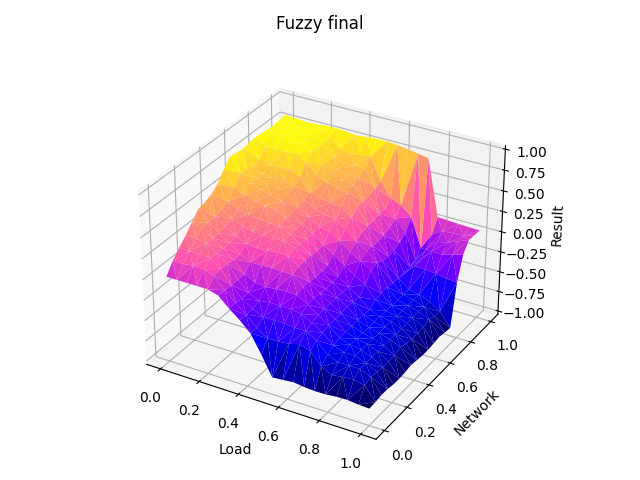
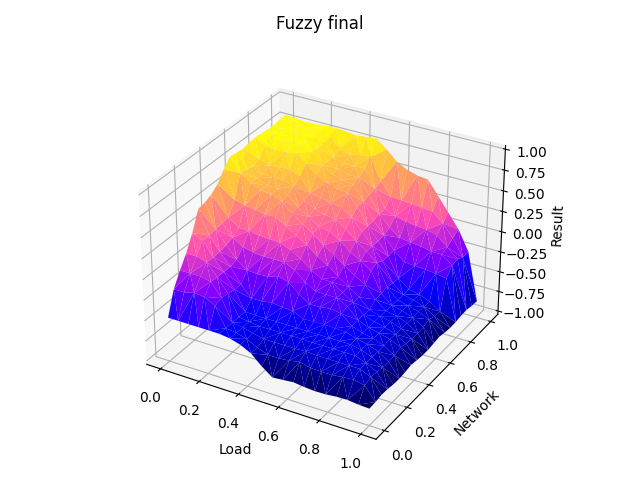
Final Projeto2

Changed region(s): [[0.25, 0.375, 0.5625, 0.8125], [0.5938, 0.2812, 0.75, 0.6875]]

diff --git a/Projeto_2/main.py b/Projeto_2/main.py
@@ -22,7 +22,7 @@ S_4 = FuzzySet(function=Triangular_MF(a=0.5, b=0.75, c=1), term="high")
 S_5 = FuzzySet(function=Triangular_MF(a=0.75, b=1, c=1), term="very_high")
 S_LV =  LinguisticVariable([S_1, S_2, S_3,S_4,S_5], concept="Memory usage", universe_of_discourse=[0,1])
 FS_L.add_linguistic_variable("Memory",S_LV)
-#L_LL.plot()
+
 
 F_1 = FuzzySet(function=Triangular_MF(a=0, b=0, c=0.25), term="very_low")
 F_2 = FuzzySet(function=Triangular_MF(a=0.0, b=0.25, c=0.5), term="low")
@@ -40,7 +40,7 @@ T_4 = FuzzySet(function=Triangular_MF(a=0.5, b=0.75, c=1), term="high")
 T_5 = FuzzySet(function=Triangular_MF(a=0.75, b=1, c=1), term="very_high")
 T_LV = LinguisticVariable([T_1, T_2, T_3, T_4, T_5], universe_of_discourse=[0,1])
 FS_L.add_linguistic_variable("Load", T_LV)
-FS_L.produce_figure()
+#FS_L.produce_figure()
 
 # Define fuzzy rules
 R_L1 = "IF (Memory IS very_low) AND (Processor IS very_low) THEN (Load IS very_high)"
@@ -52,21 +52,21 @@ R_L6 = "IF (Memory IS low) AND (Processor IS very_low) THEN (Load IS very_high)"
 R_L7 = "IF (Memory IS low) AND (Processor IS low) THEN (Load IS very_high)"
 R_L8 = "IF (Memory IS low) AND (Processor IS normal) THEN (Load IS high)"
 R_L9 = "IF (Memory IS low) AND (Processor IS high) THEN (Load IS high)"
-R_L10 = "IF (Memory IS low) AND (Processor IS very_high) THEN (Load IS normal)"
+R_L10 = "IF (Memory IS low) AND (Processor IS very_high) THEN (Load IS low)"
 R_L11 = "IF (Memory IS normal) AND (Processor IS very_low) THEN (Load IS high)"
 R_L12 = "IF (Memory IS normal) AND (Processor IS low) THEN (Load IS high)"
 R_L13 = "IF (Memory IS normal) AND (Processor IS normal) THEN (Load IS normal)"
-R_L14 = "IF (Memory IS normal) AND (Processor IS high) THEN (Load IS normal)"
-R_L15 = "IF (Memory IS normal) AND (Processor IS very_high) THEN (Load IS normal)"
+R_L14 = "IF (Memory IS normal) AND (Processor IS high) THEN (Load IS low)"
+R_L15 = "IF (Memory IS normal) AND (Processor IS very_high) THEN (Load IS low)"
 R_L16 = "IF (Memory IS high) AND (Processor IS very_low) THEN (Load IS high)"
 R_L17 = "IF (Memory IS high) AND (Processor IS low) THEN (Load IS high)"
-R_L18 = "IF (Memory IS high) AND (Processor IS normal) THEN (Load IS normal)"
+R_L18 = "IF (Memory IS high) AND (Processor IS normal) THEN (Load IS low)"
 R_L19 = "IF (Memory IS high) AND (Processor IS high) THEN (Load IS low)"
-R_L20 = "IF (Memory IS high) AND (Processor IS very_high) THEN (Load IS low)"
+R_L20 = "IF (Memory IS high) AND (Processor IS very_high) THEN (Load IS very_low)"
 R_L21 = "IF (Memory IS very_high) AND (Processor IS very_low) THEN (Load IS high)"
-R_L22 = "IF (Memory IS very_high) AND (Processor IS low) THEN (Load IS normal)"
-R_L23 = "IF (Memory IS very_high) AND (Processor IS normal) THEN (Load IS normal)"
-R_L24 = "IF (Memory IS very_high) AND (Processor IS very_high) THEN (Load IS low)"
+R_L22 = "IF (Memory IS very_high) AND (Processor IS low) THEN (Load IS low)"
+R_L23 = "IF (Memory IS very_high) AND (Processor IS normal) THEN (Load IS low)"
+R_L24 = "IF (Memory IS very_high) AND (Processor IS high) THEN (Load IS very_low)"
 R_L25 = "IF (Memory IS very_high) AND (Processor IS very_high) THEN (Load IS very_low)"
 FS_L.add_rules([ R_L1, R_L2, R_L3, R_L4, R_L5, R_L6, R_L7, R_L8, R_L9, R_L10, R_L11, R_L12, R_L13, R_L14, R_L15, R_L16, R_L17 ,R_L18, R_L19, R_L20, R_L21, R_L22, R_L23, R_L24, R_L25 ])
 
@@ -99,34 +99,34 @@ N_4 = FuzzySet(function=Triangular_MF(a=0.5, b=0.75, c=1), term="high")
 N_5 = FuzzySet(function=Triangular_MF(a=0.75, b=1, c=1), term="very_high")
 N_LV = LinguisticVariable([N_1, N_2, N_3, N_4, N_5], universe_of_discourse=[0, 1])
 FS_N.add_linguistic_variable("Network", N_LV)
-FS_N.produce_figure()
+#FS_N.produce_figure()
 # Define fuzzy rules
 
-R_N1 = "IF (Output IS very_low) AND (Latency IS very_low) THEN (Network IS normal)"
+R_N1 = "IF (Output IS very_low) AND (Latency IS very_low) THEN (Network IS low)"
 R_N2 = "IF (Output IS very_low) AND (Latency IS low) THEN (Network IS high)"
 R_N3 = "IF (Output IS very_low) AND (Latency IS normal) THEN (Network IS high)"
 R_N4 = "IF (Output IS very_low) AND (Latency IS high) THEN (Network IS very_high)"
 R_N5 = "IF (Output IS very_low) AND (Latency IS very_high) THEN (Network IS very_high)"
-R_N6 = "IF (Output IS low) AND (Latency IS very_low) THEN (Network IS normal"
-R_N7 = "IF (Output IS low) AND (Latency IS low) THEN (Network IS normal)"
+R_N6 = "IF (Output IS low) AND (Latency IS very_low) THEN (Network IS low"
+R_N7 = "IF (Output IS low) AND (Latency IS low) THEN (Network IS low)"
 R_N8 = "IF (Output IS low) AND (Latency IS normal) THEN (Network IS high)"
 R_N9 = "IF (Output IS low) AND (Latency IS high) THEN (Network IS high)"
 R_N10 = "IF (Output IS low) AND (Latency IS very_high) THEN (Network IS very_high)"
 R_N11 = "IF (Output IS normal) AND (Latency IS very_low) THEN (Network IS low)"
-R_N12 = "IF (Output IS normal) AND (Latency IS low) THEN (Network IS normal)"
+R_N12 = "IF (Output IS normal) AND (Latency IS low) THEN (Network IS low)"
 R_N13 = "IF (Output IS normal) AND (Latency IS normal) THEN (Network IS normal)"
 R_N14 = "IF (Output IS normal) AND (Latency IS high) THEN (Network IS high)"
 R_N15 = "IF (Output IS normal) AND (Latency IS very_high) THEN (Network IS high)"
 R_N16 = "IF (Output IS high) AND (Latency IS low) THEN (Network IS low)"
-R_N17 = "IF (Output IS high) AND (Latency IS very_low) THEN (Network IS low)"
-R_N18 = "IF (Output IS high) AND (Latency IS normal) THEN (Network IS normal)"
-R_N19 = "IF (Output IS high) AND (Latency IS high) THEN (Network IS normal)"
+R_N17 = "IF (Output IS high) AND (Latency IS very_low) THEN (Network IS very_low)"
+R_N18 = "IF (Output IS high) AND (Latency IS normal) THEN (Network IS low)"
+R_N19 = "IF (Output IS high) AND (Latency IS high) THEN (Network IS low)"
 R_N20 = "IF (Output IS high) AND (Latency IS very_high) THEN (Network IS high)"
 R_N21 = "IF (Output IS very_high) AND (Latency IS low) THEN (Network IS very_low)"
-R_N22 = "IF (Output IS very_high) AND (Latency IS very_low) THEN (Network IS low)"
+R_N22 = "IF (Output IS very_high) AND (Latency IS very_low) THEN (Network IS very_low)"
 R_N23 = "IF (Output IS very_high) AND (Latency IS normal) THEN (Network IS low)"
-R_N24 = "IF (Output IS very_high) AND (Latency IS very_high) THEN (Network IS normal)"
-R_N25 = "IF (Output IS very_high) AND (Latency IS very_high) THEN (Network IS normal)"
+R_N24 = "IF (Output IS very_high) AND (Latency IS high) THEN (Network IS low)"
+R_N25 = "IF (Output IS very_high) AND (Latency IS very_high) THEN (Network IS low)"
 FS_N.add_rules([ R_N1, R_N2, R_N3, R_N4, R_N5, R_N6, R_N7, R_N8, R_N9, R_N10, R_N11, R_N12, R_N13, R_N14, R_N15, R_N16, R_N17 ,R_N18, R_N19, R_N20, R_N21, R_N22, R_N23, R_N24, R_N25 ])
 ########FIM REDE Network ###########################################
 
@@ -157,17 +157,17 @@ J_4 = FuzzySet(function=Triangular_MF(a=0.0, b=0.5, c=1), term="high")
 J_5 = FuzzySet(function=Triangular_MF(a=0.5, b=1, c=1), term="very_high")
 J_LV = LinguisticVariable([J_1, J_2, J_3,J_4,J_5], universe_of_discourse=[-1, 1])
 FS_F.add_linguistic_variable("Result", J_LV)
-FS_L.produce_figure()
+#FS_L.produce_figure()
 # Define fuzzy rules
 
-R_F1 = "IF (Network IS very_low) AND (Load IS very_low) THEN (Result IS normal)"
-R_F2 = "IF (Network IS very_low) AND (Load IS low) THEN (Result IS normal)"
+R_F1 = "IF (Network IS very_low) AND (Load IS very_low) THEN (Result IS low)"
+R_F2 = "IF (Network IS very_low) AND (Load IS low) THEN (Result IS low)"
 R_F3 = "IF (Network IS very_low) AND (Load IS normal) THEN (Result IS very_low)"
 R_F4 = "IF (Network IS very_low) AND (Load IS high) THEN (Result IS very_low)"
 R_F5 = "IF (Network IS very_low) AND (Load IS very_high) THEN (Result IS very_low)"
 R_F6 = "IF (Network IS low) AND (Load IS very_low) THEN (Result IS high"
-R_F7 = "IF (Network IS low) AND (Load IS low) THEN (Result IS normal)"
-R_F8 = "IF (Network IS low) AND (Load IS normal) THEN (Result IS normal)"
+R_F7 = "IF (Network IS low) AND (Load IS low) THEN (Result IS low)"
+R_F8 = "IF (Network IS low) AND (Load IS normal) THEN (Result IS low)"
 R_F9 = "IF (Network IS low) AND (Load IS high) THEN (Result IS low)"
 R_F10 = "IF (Network IS low) AND (Load IS very_high) THEN (Result IS very_low)"
 R_F11 = "IF (Network IS normal) AND (Load IS very_low) THEN (Result IS very_high)"
@@ -183,14 +183,14 @@ R_F20 = "IF (Network IS high) AND (Load IS very_high) THEN (Result IS very_low)"
 R_F21 = "IF (Network IS very_high) AND (Load IS low) THEN (Result IS very_high)"
 R_F22 = "IF (Network IS very_high) AND (Load IS very_low) THEN (Result IS very_high)"
 R_F23 = "IF (Network IS very_high) AND (Load IS normal) THEN (Result IS very_high)"
-R_F24 = "IF (Network IS very_high) AND (Load IS very_high) THEN (Result IS high)"
+R_F24 = "IF (Network IS very_high) AND (Load IS high) THEN (Result IS high)"
 R_F25 = "IF (Network IS very_high) AND (Load IS very_high) THEN (Result IS very_low)"
 FS_F.add_rules([ R_F1, R_F2, R_F3, R_F4, R_F5, R_F6, R_F7, R_F8, R_F9, R_F10, R_F11, R_F12, R_F13, R_F14, R_F15, R_F16, R_F17 ,R_F18, R_F19, R_F20, R_F21, R_F22, R_F23, R_F24, R_F25 ])
 # Set antecedents values
 
-for n_teste in range(9):
+for n_teste in range(10):
     FS_N.set_variable("Latency", df['Latency'][n_teste])
-    FS_N.set_variable("Output", df['OutNetThroughput'][n_teste])
+    FS_N.set_variable("Output", df['OutBandwidth'][n_teste])
 
     FS_L.set_variable("Memory", df['ProcessorLoad'][n_teste])
     FS_L.set_variable("Processor", df['MemoryUsage'][n_teste])

diff --git a/Projeto_2/TestMe.py b/Projeto_2/TestMe.py
@@ -45,21 +45,21 @@ R_L6 = "IF (Memory IS low) AND (Processor IS very_low) THEN (Load IS very_high)"
 R_L7 = "IF (Memory IS low) AND (Processor IS low) THEN (Load IS very_high)"
 R_L8 = "IF (Memory IS low) AND (Processor IS normal) THEN (Load IS high)"
 R_L9 = "IF (Memory IS low) AND (Processor IS high) THEN (Load IS high)"
-R_L10 = "IF (Memory IS low) AND (Processor IS very_high) THEN (Load IS normal)"
+R_L10 = "IF (Memory IS low) AND (Processor IS very_high) THEN (Load IS low)"
 R_L11 = "IF (Memory IS normal) AND (Processor IS very_low) THEN (Load IS high)"
 R_L12 = "IF (Memory IS normal) AND (Processor IS low) THEN (Load IS high)"
 R_L13 = "IF (Memory IS normal) AND (Processor IS normal) THEN (Load IS normal)"
-R_L14 = "IF (Memory IS normal) AND (Processor IS high) THEN (Load IS normal)"
-R_L15 = "IF (Memory IS normal) AND (Processor IS very_high) THEN (Load IS normal)"
+R_L14 = "IF (Memory IS normal) AND (Processor IS high) THEN (Load IS low)"
+R_L15 = "IF (Memory IS normal) AND (Processor IS very_high) THEN (Load IS low)"
 R_L16 = "IF (Memory IS high) AND (Processor IS very_low) THEN (Load IS high)"
 R_L17 = "IF (Memory IS high) AND (Processor IS low) THEN (Load IS high)"
-R_L18 = "IF (Memory IS high) AND (Processor IS normal) THEN (Load IS normal)"
+R_L18 = "IF (Memory IS high) AND (Processor IS normal) THEN (Load IS low)"
 R_L19 = "IF (Memory IS high) AND (Processor IS high) THEN (Load IS low)"
-R_L20 = "IF (Memory IS high) AND (Processor IS very_high) THEN (Load IS low)"
+R_L20 = "IF (Memory IS high) AND (Processor IS very_high) THEN (Load IS very_low)"
 R_L21 = "IF (Memory IS very_high) AND (Processor IS very_low) THEN (Load IS high)"
-R_L22 = "IF (Memory IS very_high) AND (Processor IS low) THEN (Load IS normal)"
-R_L23 = "IF (Memory IS very_high) AND (Processor IS normal) THEN (Load IS normal)"
-R_L24 = "IF (Memory IS very_high) AND (Processor IS very_high) THEN (Load IS low)"
+R_L22 = "IF (Memory IS very_high) AND (Processor IS low) THEN (Load IS low)"
+R_L23 = "IF (Memory IS very_high) AND (Processor IS normal) THEN (Load IS low)"
+R_L24 = "IF (Memory IS very_high) AND (Processor IS high) THEN (Load IS very_low)"
 R_L25 = "IF (Memory IS very_high) AND (Processor IS very_high) THEN (Load IS very_low)"
 FS_L.add_rules([ R_L1, R_L2, R_L3, R_L4, R_L5, R_L6, R_L7, R_L8, R_L9, R_L10, R_L11, R_L12, R_L13, R_L14, R_L15, R_L16, R_L17 ,R_L18, R_L19, R_L20, R_L21, R_L22, R_L23, R_L24, R_L25 ])
 
@@ -94,31 +94,31 @@ N_LV = LinguisticVariable([N_1, N_2, N_3, N_4, N_5], universe_of_discourse=[0, 1
 FS_N.add_linguistic_variable("Network", N_LV)
 # Define fuzzy rules
 
-R_N1 = "IF (Output IS very_low) AND (Latency IS very_low) THEN (Network IS normal)"
+R_N1 = "IF (Output IS very_low) AND (Latency IS very_low) THEN (Network IS low)"
 R_N2 = "IF (Output IS very_low) AND (Latency IS low) THEN (Network IS high)"
 R_N3 = "IF (Output IS very_low) AND (Latency IS normal) THEN (Network IS high)"
 R_N4 = "IF (Output IS very_low) AND (Latency IS high) THEN (Network IS very_high)"
 R_N5 = "IF (Output IS very_low) AND (Latency IS very_high) THEN (Network IS very_high)"
-R_N6 = "IF (Output IS low) AND (Latency IS very_low) THEN (Network IS normal"
-R_N7 = "IF (Output IS low) AND (Latency IS low) THEN (Network IS normal)"
+R_N6 = "IF (Output IS low) AND (Latency IS very_low) THEN (Network IS low"
+R_N7 = "IF (Output IS low) AND (Latency IS low) THEN (Network IS low)"
 R_N8 = "IF (Output IS low) AND (Latency IS normal) THEN (Network IS high)"
 R_N9 = "IF (Output IS low) AND (Latency IS high) THEN (Network IS high)"
 R_N10 = "IF (Output IS low) AND (Latency IS very_high) THEN (Network IS very_high)"
 R_N11 = "IF (Output IS normal) AND (Latency IS very_low) THEN (Network IS low)"
-R_N12 = "IF (Output IS normal) AND (Latency IS low) THEN (Network IS normal)"
+R_N12 = "IF (Output IS normal) AND (Latency IS low) THEN (Network IS low)"
 R_N13 = "IF (Output IS normal) AND (Latency IS normal) THEN (Network IS normal)"
 R_N14 = "IF (Output IS normal) AND (Latency IS high) THEN (Network IS high)"
 R_N15 = "IF (Output IS normal) AND (Latency IS very_high) THEN (Network IS high)"
 R_N16 = "IF (Output IS high) AND (Latency IS low) THEN (Network IS low)"
-R_N17 = "IF (Output IS high) AND (Latency IS very_low) THEN (Network IS low)"
-R_N18 = "IF (Output IS high) AND (Latency IS normal) THEN (Network IS normal)"
-R_N19 = "IF (Output IS high) AND (Latency IS high) THEN (Network IS normal)"
+R_N17 = "IF (Output IS high) AND (Latency IS very_low) THEN (Network IS very_low)"
+R_N18 = "IF (Output IS high) AND (Latency IS normal) THEN (Network IS low)"
+R_N19 = "IF (Output IS high) AND (Latency IS high) THEN (Network IS low)"
 R_N20 = "IF (Output IS high) AND (Latency IS very_high) THEN (Network IS high)"
 R_N21 = "IF (Output IS very_high) AND (Latency IS low) THEN (Network IS very_low)"
-R_N22 = "IF (Output IS very_high) AND (Latency IS very_low) THEN (Network IS low)"
+R_N22 = "IF (Output IS very_high) AND (Latency IS very_low) THEN (Network IS very_low)"
 R_N23 = "IF (Output IS very_high) AND (Latency IS normal) THEN (Network IS low)"
-R_N24 = "IF (Output IS very_high) AND (Latency IS very_high) THEN (Network IS normal)"
-R_N25 = "IF (Output IS very_high) AND (Latency IS very_high) THEN (Network IS normal)"
+R_N24 = "IF (Output IS very_high) AND (Latency IS high) THEN (Network IS low)"
+R_N25 = "IF (Output IS very_high) AND (Latency IS very_high) THEN (Network IS low)"
 FS_N.add_rules([ R_N1, R_N2, R_N3, R_N4, R_N5, R_N6, R_N7, R_N8, R_N9, R_N10, R_N11, R_N12, R_N13, R_N14, R_N15, R_N16, R_N17 ,R_N18, R_N19, R_N20, R_N21, R_N22, R_N23, R_N24, R_N25 ])
 ########FIM REDE Network ###########################################
 
@@ -151,14 +151,14 @@ J_LV = LinguisticVariable([J_1, J_2, J_3,J_4,J_5], universe_of_discourse=[-1, 1]
 FS_F.add_linguistic_variable("Result", J_LV)
 # Define fuzzy rules
 
-R_F1 = "IF (Network IS very_low) AND (Load IS very_low) THEN (Result IS normal)"
-R_F2 = "IF (Network IS very_low) AND (Load IS low) THEN (Result IS normal)"
+R_F1 = "IF (Network IS very_low) AND (Load IS very_low) THEN (Result IS low)"
+R_F2 = "IF (Network IS very_low) AND (Load IS low) THEN (Result IS low)"
 R_F3 = "IF (Network IS very_low) AND (Load IS normal) THEN (Result IS very_low)"
 R_F4 = "IF (Network IS very_low) AND (Load IS high) THEN (Result IS very_low)"
 R_F5 = "IF (Network IS very_low) AND (Load IS very_high) THEN (Result IS very_low)"
 R_F6 = "IF (Network IS low) AND (Load IS very_low) THEN (Result IS high"
-R_F7 = "IF (Network IS low) AND (Load IS low) THEN (Result IS normal)"
-R_F8 = "IF (Network IS low) AND (Load IS normal) THEN (Result IS normal)"
+R_F7 = "IF (Network IS low) AND (Load IS low) THEN (Result IS low)"
+R_F8 = "IF (Network IS low) AND (Load IS normal) THEN (Result IS low)"
 R_F9 = "IF (Network IS low) AND (Load IS high) THEN (Result IS low)"
 R_F10 = "IF (Network IS low) AND (Load IS very_high) THEN (Result IS very_low)"
 R_F11 = "IF (Network IS normal) AND (Load IS very_low) THEN (Result IS very_high)"
@@ -174,11 +174,11 @@ R_F20 = "IF (Network IS high) AND (Load IS very_high) THEN (Result IS very_low)"
 R_F21 = "IF (Network IS very_high) AND (Load IS low) THEN (Result IS very_high)"
 R_F22 = "IF (Network IS very_high) AND (Load IS very_low) THEN (Result IS very_high)"
 R_F23 = "IF (Network IS very_high) AND (Load IS normal) THEN (Result IS very_high)"
-R_F24 = "IF (Network IS very_high) AND (Load IS very_high) THEN (Result IS high)"
+R_F24 = "IF (Network IS very_high) AND (Load IS high) THEN (Result IS high)"
 R_F25 = "IF (Network IS very_high) AND (Load IS very_high) THEN (Result IS very_low)"
 FS_F.add_rules([ R_F1, R_F2, R_F3, R_F4, R_F5, R_F6, R_F7, R_F8, R_F9, R_F10, R_F11, R_F12, R_F13, R_F14, R_F15, R_F16, R_F17 ,R_F18, R_F19, R_F20, R_F21, R_F22, R_F23, R_F24, R_F25 ])
 # Set antecedents values
-print(len(df))
+
 for n_teste in range(len(df)):
     FS_N.set_variable("Latency", df['Latency'][n_teste])
     FS_N.set_variable("Output", df['OutNetThroughput'][n_teste])
@@ -190,6 +190,9 @@ for n_teste in range(len(df)):
     FS_F.set_variable("Network", float(FS_N.Mamdani_inference(["Network"])["Network"]))
     df["CLPVariation"][n_teste] =  FS_F.Mamdani_inference(["Result"])["Result"]
     df.to_csv("Projeto_2/Lab10-Proj2_TestS.csv")
+    print("Teste n°: ", n_teste )
+    print(FS_F.Mamdani_inference(["Result"]))
+    print("Resultado esperado: ", df['CLPVariation'][n_teste])
 
 
 
